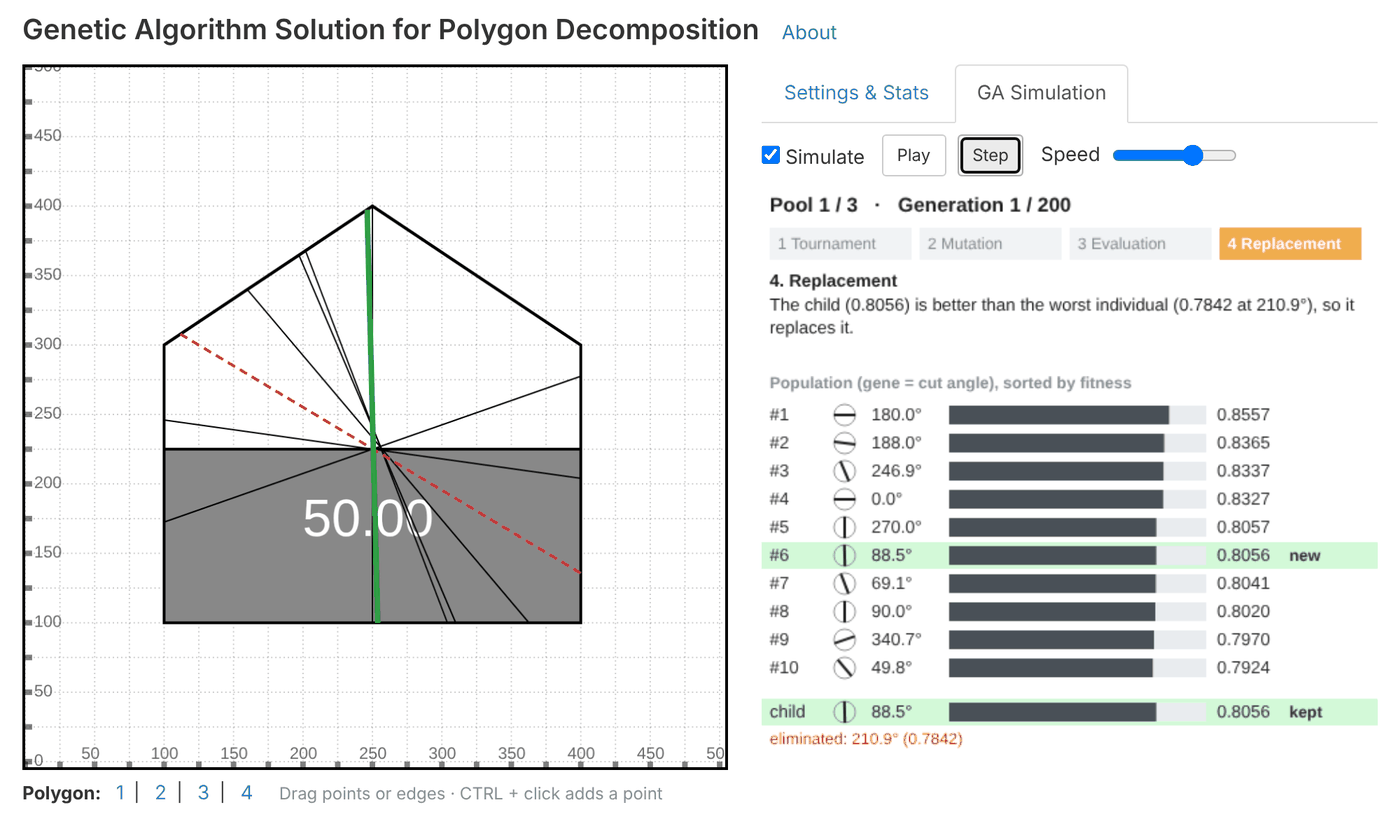
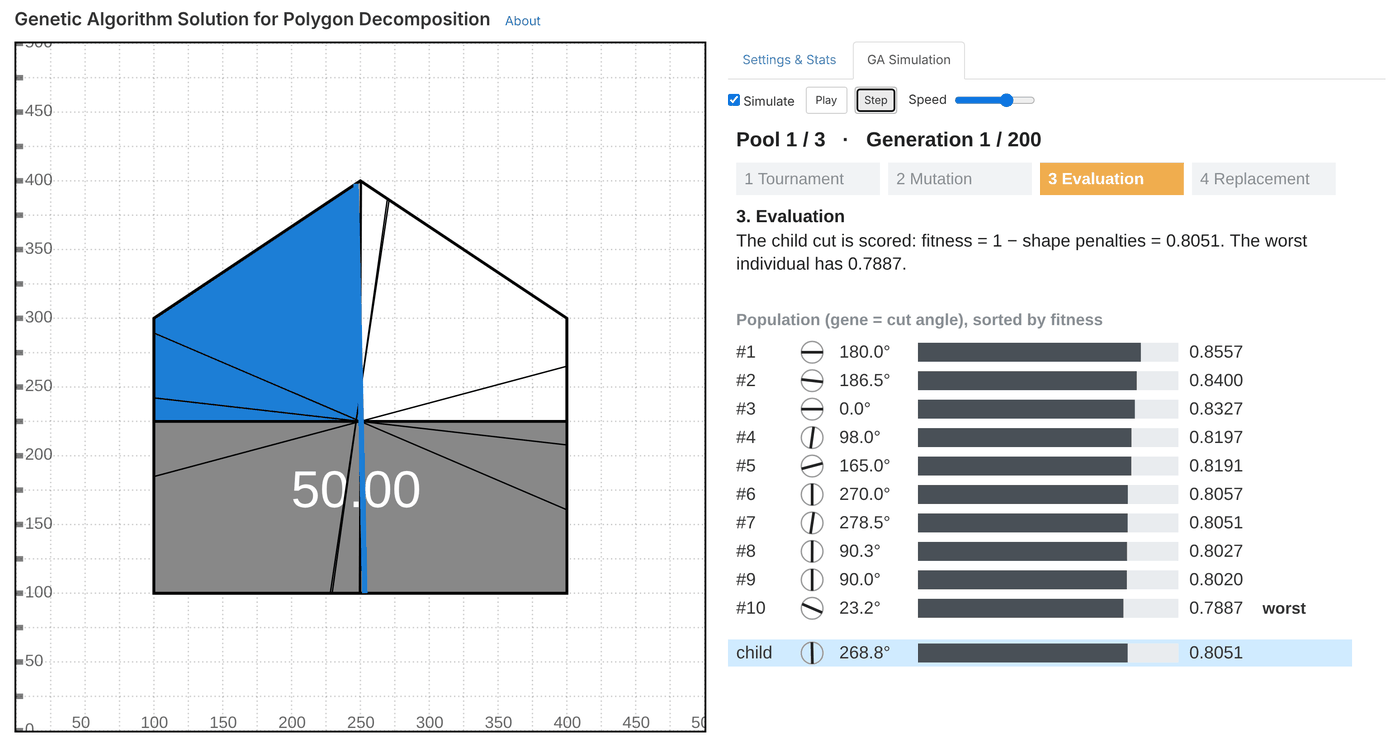
Make the layout fill the window and work on phones
- The polygon canvas now scales to the space available (fitCanvas): the
  view is resized and zoomed, so the 500x500 drawing coordinates and the
  mouse/touch mapping are unchanged. The page uses the full window width,
  and the simulation panel scales with its column.
- On phones and narrow windows the tabs stack below the canvas, which
  fits the screen width; the canvas starts small so it cannot widen the
  mobile layout viewport.
- Dragging vertices hit-tested the vertex markers drawn on top of the
  polygon and moved them instead of the polygon; hit-test the polygon.
- README: new screenshot and a note on the responsive layout.

Claude-Session: https://claude.ai/code/session_01GDn6v5hYgDPU3bx6nbU9jo

Changed region(s): [[0.0, 0.0, 0.9829, 0.9986], [0.0921, 0.2497, 0.43, 0.8114]]

diff --git a/js/partitioning.js b/js/partitioning.js
@@ -23,7 +23,7 @@ function onMouseDown(event){
 
     segment = path = stroke = null;
     
-	var hitResult = project.hitTest(event.point, hitOptions);        
+    var hitResult = myPath.hitTest(event.point, hitOptions); // only the polygon, not the vertex markers drawn on top of it
 
     if (hitResult) {
         console.log(hitResult.type)
@@ -185,6 +185,37 @@ function drawCoordinateSystem(){
     }
 }
 drawCoordinateSystem();
+
+///////////////////////////////   responsive canvas   ////////////////////////////////
+// The drawing keeps its 500x500 coordinate system; only the view is scaled to the space available.
+
+var WORLD_SIZE = 500, RIGHT_MIN = 440, PAGE_PAD = 16, COLUMN_GAP = 24, CANVAS_BORDER = 4;
+
+function fitCanvas(){
+    var W = window.innerWidth, H = window.innerHeight;
+    var side = W - 2 * PAGE_PAD - COLUMN_GAP - RIGHT_MIN; // room for the canvas next to the tabs
+    var size;
+    if(side >= 360){ // two columns: fill the height left under the header
+        var top = view.element.getBoundingClientRect().top + window.pageYOffset;
+        var presets = document.querySelector('.polygon-presets').offsetHeight + 12;
+        size = Math.min(side, H - top - presets);
+    }
+    else             // one column (phones, narrow windows): fill the width
+        size = W - 2 * PAGE_PAD;
+    size = Math.max(240, Math.floor(size - CANVAS_BORDER));
+
+    view.viewSize = new Size(size, size);
+    view.zoom = size / WORLD_SIZE;
+    view.center = new Point(WORLD_SIZE / 2, WORLD_SIZE / 2);
+}
+fitCanvas();
+window.addEventListener('resize', function(){
+    fitCanvas();
+    if(sim.lastPool && sim.enabled){ // re-layout the panel
+        window.show();
+        drawSimulation(sim.lastPool, sim.lastGen);
+    }
+});
 
 ////////////////////////////////////////    Main   //////////////////////////////////
 
@@ -726,7 +757,7 @@ function mutation(line){
 
 ////////////////////////////   GA simulation  ////////////////////////////////////////
 
-var sim = {enabled: false, playing: true, delay: 700, timer: null, next: null};
+var sim = {enabled: false, playing: true, delay: 700, timer: null, next: null, lastPool: null, lastGen: null};
 
 function simSchedule(fn){ // run fn after the frame delay, or when Step / Play is pressed
     sim.next = fn;
@@ -832,7 +863,7 @@ function wrapText(ctx, text, x, y, maxWidth, lineHeight){
 }
 
 function drawGeneRow(ctx, y, label, line, background, status){
-    var W = ctx.canvas.width;
+    var W = SIM_W;
     if(background){
         ctx.fillStyle = background;
         ctx.fillRect(0, y - 10, W, 20);
@@ -869,9 +900,28 @@ function drawGeneRow(ctx, y, label, line, background, status){
     }
 }
 
-function drawSimulation(pool, g){
+var SIM_W = 460, SIM_H = 430; // layout size of the panel; it is scaled to the space available
+
+function prepareSimCanvas(){
     var canvas = document.getElementById("simCanvas"), ctx = canvas.getContext('2d');
-    ctx.clearRect(0, 0, canvas.width, canvas.height);
+    var avail = canvas.parentNode.clientWidth || SIM_W;
+    var k = Math.min(avail / SIM_W, 1.5);
+    var top = canvas.getBoundingClientRect().top;
+    if(window.innerWidth >= 900 && top > 0) // two columns: also fit the height of the window
+        k = Math.max(0.7, Math.min(k, (window.innerHeight - top - 8) / SIM_H));
+    var dpr = window.devicePixelRatio || 1;
+    canvas.style.width = Math.round(SIM_W * k) + 'px';
+    canvas.style.height = Math.round(SIM_H * k) + 'px';
+    canvas.width = Math.round(SIM_W * k * dpr);
+    canvas.height = Math.round(SIM_H * k * dpr);
+    ctx.setTransform(k * dpr, 0, 0, k * dpr, 0, 0);
+    return ctx;
+}
+
+function drawSimulation(pool, g){
+    sim.lastPool = pool;
+    sim.lastGen = g;
+    var ctx = prepareSimCanvas();
     if(!pool || !sim.enabled)
         return;
 
@@ -903,7 +953,7 @@ function drawSimulation(pool, g){
     }
 
     // ----- panel: header, phase chips, explanation
-    var W = canvas.width;
+    var W = SIM_W;
     ctx.fillStyle = '#222';
     ctx.font = 'bold 15px sans-serif';
     ctx.fillText('Pool ' + (pools.indexOf(pool) + 1) + ' / ' + pools.length + '   ·   Generation ' + g.t + ' / ' + GENERATIONS, 6, 20);

diff --git a/css/shapes.css b/css/shapes.css
@@ -4,12 +4,11 @@ body {
     color: #333;
 }
 
-#myCanvas { border: 2px solid black; display: block; }
+/* the canvas is sized by fitCanvas(); content-box keeps the border outside the drawing */
+#myCanvas { border: 2px solid black; display: block; box-sizing: content-box; }
 
 /* ----- header ----- */
 .app-header {
-    max-width: 1060px;
-    margin: 0 auto;
     padding: 10px 16px 4px;
     display: flex;
     align-items: baseline;
@@ -21,18 +20,17 @@ body {
 .about[open] { flex-basis: 100%; }
 .about p { margin: 6px 0 0; font-size: 13px; max-width: 900px; }
 
-/* ----- two-column layout: polygon left, tabs right ----- */
+/* ----- two columns: polygon left, tabs right; they stack when the window is narrow ----- */
 .app {
-    max-width: 1060px;
-    margin: 0 auto;
     padding: 8px 16px;
     display: flex;
     flex-wrap: wrap;
+    justify-content: center;
     gap: 24px;
     align-items: flex-start;
 }
-.app-left { flex: 0 0 504px; max-width: 100%; }
-.app-right { flex: 1 1 400px; min-width: 0; }
+.app-left { flex: 0 0 auto; max-width: 100%; }
+.app-right { flex: 1 1 440px; max-width: 760px; min-width: 0; }
 
 .polygon-presets { font-size: 13px; margin-top: 4px; }
 .polygon-presets .btn-link { padding: 2px 6px; }
@@ -55,6 +53,13 @@ body {
 .sim-toggle { margin-right: 4px; }
 .sim-speed-label { margin: 0 0 0 4px; font-weight: normal; }
 #sim_speed { width: 90px; }
-#simCanvas { border: 0; max-width: 100%; display: block; }
+#simCanvas { border: 0; display: block; }
 
-.app-footer { max-width: 1060px; margin: 8px auto 16px; padding: 0 16px; font-size: 12px; }
+.app-footer { padding: 0 16px; margin: 8px 0 16px; font-size: 12px; text-align: center; }
+
+/* ----- phones ----- */
+@media (max-width: 600px) {
+    .app-header h1 { font-size: 17px; }
+    .objectives, .stats { grid-template-columns: 1fr; }
+    .polygon-presets .hint { display: block; margin: 2px 0 0; }
+}

diff --git a/index.html b/index.html
@@ -47,7 +47,7 @@
 <main class="app">
 
     <section class="app-left">
-        <canvas id="myCanvas" height="500" width="500"></canvas>
+        <canvas id="myCanvas" height="300" width="300"></canvas>
         <div class="polygon-presets">
             <label>Polygon:</label>
             <button type="button" class="btn btn-link" onclick="createInitialPolygon(1)">1</button>|

diff --git a/README.md b/README.md
@@ -14,7 +14,7 @@ The project is a static web page: there is no build step, package manager or ser
 
 ## Usage
 
-The page has the polygon canvas on the left and two tabs on the right: **Settings & Stats** and **GA Simulation**.
+The page has the polygon canvas on the left and two tabs on the right: **Settings & Stats** and **GA Simulation**. The canvas scales to fill the window (it keeps its 500 × 500 coordinate system); on phones and narrow windows the tabs move below it, and the polygon can be edited by touch.
 
 - **Draw another polygon:** buttons `1`–`4` under the canvas load the predefined polygons.
 - **Edit the polygon:** drag vertices or edges; hold `CTRL` and click to add a new vertex.
@@ -26,9 +26,9 @@ The page has the polygon canvas on the left and two tabs on the right: **Setting
   - The polygon canvas draws every individual's cut, with the lines in play highlighted. The panel lists the population (gene = cut angle, shown as a compass needle) with fitness bars and explains each phase.
   - Unticking the box finishes the current run at full speed.
 
-![GA simulation: the child cut (green) replaces the worst individual (dashed red)](images/simulation.png)
+![GA simulation: the child's cut (blue) is evaluated against the population](images/simulation.png)
 
-*The simulation in the replacement phase: the child's cut (green) is better than the worst individual (dashed red), so it takes its place in the population.*
+*The simulation in the evaluation phase: the child's cut (blue) gives the shaded part exactly 50 % of the area and is scored; the panel compares it with the population, sorted by fitness.*
 
 ## Project Structure
 
